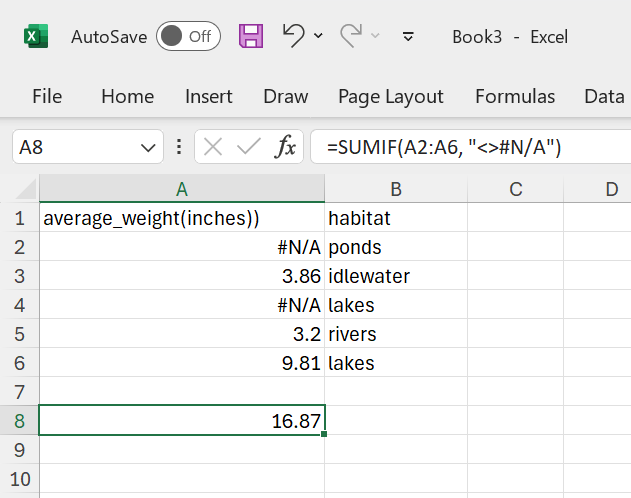
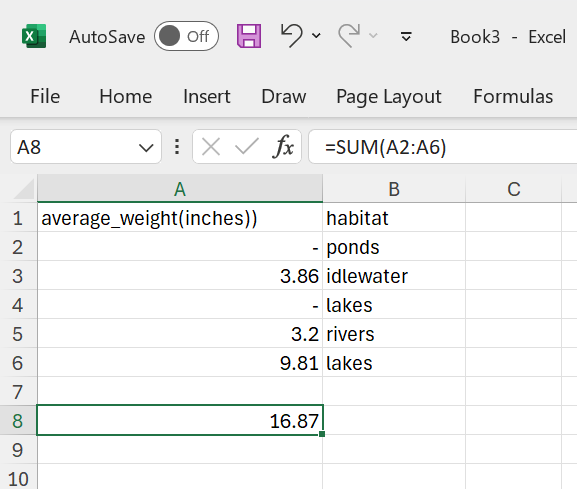
FILTER

diff --git a/excel/excel_05_data_cleaning.md b/excel/excel_05_data_cleaning.md
@@ -131,6 +131,8 @@ Here you can see it in action:
 
 ## Dealing with missing data
 
+### Finding missing data
+
 Often, data analysts are dealing with missing data in datasets. Data fields may be simply empty, contain a dash (`-`) or may contain an `#N/A` error. There are various approaches one can take when dealing with missing data. For example, you can throw out all the data for any sample missing one or more data elements. However, be aware that missing data might not be randomly distributed. 
 
 The approaches that can be taken are:
@@ -156,27 +158,46 @@ Or check if they are equal to #N/A using the `ISNA` function:
 *<sub>Figure 19: Validate if cell equals #N/A.</sub>*
 
 
-This is a bit cumbersome and error prone. You can work with third party add-ons, use VBA script or just use R or Python instead. Both R and Python do have powerful functions to deal with missing data.
+In addition to counting missing data as #N/A in the FullName column, we can also identify the item in the shortName column using `XLOOKUP`:
+
+![xlookup](./pics_05_data_cleaning/fig20.png)
+*<sub>Figure 20: Identify the gene with an #N/A error using XLOOKUP.</sub>*
+
+As we can not directly search for an `#N/A` we needed to use the expression:
+
+```
+=XLOOKUP(TRUE, ISNA(lookup_array), return_array)
+```
+
+In addition, `XLOOKUP` can only find the first instance of an `#N/A` value.
+Therefore, it is better to use the `FILTER` function to filter for rows with an `#N/A`:
+
+![xlookup](./pics_05_data_cleaning/fig21.png)
+*<sub>Figure 21: Identify rows with an #N/A error using FILTER.</sub>*
+
+Note that the `FILTER` function is an array function and returns it's results across multiple cells.
+
+### Working with #N/A
 
 In any case, it is best to convert cells with "empty" values (whether it is truly blank, contains a dash or any other character to mark empty) to #N/A. #N/A is the error value of Excel that means "no value is available." To avoid accidentally including empty cells in your calculations, enter #N/A in the cells where you are missing information. (A formula that references a cell that contains #N/A will return the #N/A error value). Read more about #N/A [here](https://support.microsoft.com/en-gb/office/na-function-5469c2d1-a90c-4fb5-9bbc-64bd9bb6b47c#:~:text=Returns%20the%20error%20value%20%23N,empty%20cells%20in%20your%20calculations.).
 
 Use simply find and replace to insert #N/A in "empty" cells.
 
 
-![dealing with na](./pics_05_data_cleaning/fig20.png)
-*<sub>Figure 20: The `SUM` function still works, ignoring missing data.</sub>*
+![dealing with na](./pics_05_data_cleaning/fig22.png)
+*<sub>Figure 22: The `SUM` function still works, ignoring missing data.</sub>*
 
 As you can see, the `SUM` function still works. This might look appealing at first sight, but it also can cause a lot of troubles when you deal with larger datasets. It masks missing data!
 
 So convert to #N/A:
 
-![dealing with na](./pics_05_data_cleaning/fig21.png)
-*<sub>Figure 21: The `SUM` function does not work when #N/A is included.</sub>*
+![dealing with na](./pics_05_data_cleaning/fig23.png)
+*<sub>Figure 23: The `SUM` function does not work when #N/A is included.</sub>*
 
 As a result, the `SUM` function does not work. It does notify you that there are missing data. Now you can deal with the #N/A using the `SUMIF` function:
 
-![dealing with na](./pics_05_data_cleaning/fig22.png)
-*<sub>Figure 22: The `SUMIF` function does work when #N/A is included.</sub>*
+![dealing with na](./pics_05_data_cleaning/fig24.png)
+*<sub>Figure 24: The `SUMIF` function does work when #N/A is included.</sub>*
 
 In the above example, `<>` is a shorthand for the `NOT` operator. So the formula reads as: Only sum cells that are not equal to `#N/A` and ignore the `#N/A's`. This is a strategy that is very similar to what is used in R and Python. Your are dealing with missing data in an explicit way instead of implicit.
 
